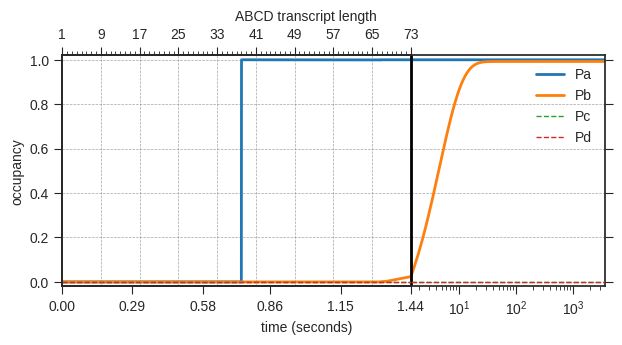
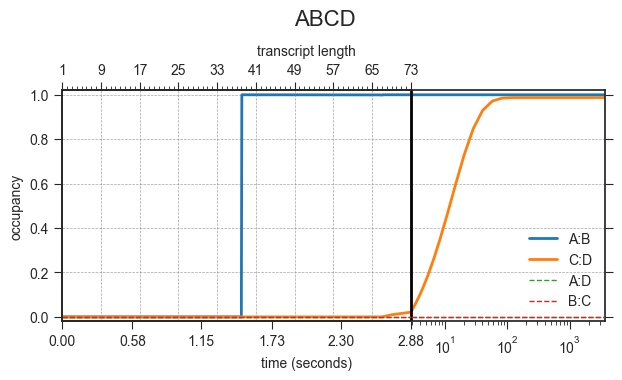
update to v0.12 and update README

diff --git a/drtransformer/__init__.py b/drtransformer/__init__.py
@@ -4,7 +4,7 @@
 # See README for instructions.
 #
 
-__version__ = "0.11"
+__version__ = "0.12"
 
 _MIN_VRNA_VERSION = "2.4.13"
 

diff --git a/README.md b/README.md
@@ -36,17 +36,26 @@ command line executables:
 ```
 
 ### An example cotranscriptional folding simulation
-As an example, let's do a quick investigation of a cotranscriptional folding
-trap designed by [Xayaphoummine et al. (2006)]. The relevant files can be found
-in the subfolder [`examples/`], in particular the three files [`ABCD.fa`],
-[`DCBA.fa`] and [`DCBAmod.fa`]. Those files contain only a fasta header and the
-respective sequence from the publication.
+As an example, we show a quick investigation of a cotranscriptional folding
+trap designed by [Xayaphoummine et al. (2006)].  Briefly, two sequences are
+composed of the same palindromic subsequences (A, B, C, D) in forward and
+reverse order (`ABCD` and `DCBA`); the third sequence (`DCMA`) has a
+point mutation which changes B to M. The experiment demonstrates how the order
+of helix formation determines which structures are formed at the end of
+transcription, an effect that cannot be observed with a thermodynamic
+equilibrium prediction, because the free energies of, for example, the helices
+A:B and B:A are almost the same due to their palindromic subsequences.
+The three input files [`ABCD.fa`], [`DCBA.fa`] and [`DCMA.fa`] 
+contain a fasta header and the respective sequence from the original publication.
+Those files can be found in the subfolder [`examples/`]. 
+
 ```sh
   ~$ cat ABCD.fa | DrTransformer --name ABCD --o-prune 0.01 --logfile 
 ```
-The above command line call of DrTransformer produced two files:
+This command line call of DrTransformer produces two files:
  - `ABCD.log` contains a human-readable summary of the cotranscriptional folding process. 
- - `ABCD.drf` contains the details of the cotranscriptional folding simulation. 
+ - `ABCD.drf` contains the details of the cotranscriptional folding simulation in the
+ [DrForna] file format. 
 
 #### Structure-based data analysis
 DrPlotter supports different types of visual analysis for the `.drf` file
@@ -63,46 +72,41 @@ match the ones shown here.** For example, to see which structures are shown at
 the simulation of nucleotide 73, read the log file entries for this transcript
 length:
 ```
-73    1 ....(((((((((((((((....)))))))))))))))....(((((((((.......)))))))))...... -42.40 [0.0240 -> 0.9924] ID = 23
-73    2 ....(((((((((((((((....)))))))))))))))....(((((((((....)).)))))))........ -39.40 [0.7734 -> 0.0076] ID = 21
-73    3 ....(((((((((((((((....)))))))))))))))....(((((((......)).))))).......... -34.80 [0.2027 -> 0.0000] ID = 19
-
+73    1 .(..(((((((((((((((....)))))))))))))))..).(((((((((.......)))))))))...... -42.60 +[0.0213 -> 0.9876] ID = 24
+73    2 ....(((((((((((((((....))))))))))))))).(..(((((((((....)).)))))))..)..... -39.90 -[0.9787 -> 0.0124] ID = 25
 ```
-The logfile lists three potentially interesting structures (in order of their
-free energy), it shows their occupancy at the start of the simulation and
-at the end of a simulation in square brackets, and it provides the ID to follow
-a specific structure through the transcription process. This ID is also used as 
-a label in the plot `ABCD.png`.
+The logfile lists two structures (in order of their free energy), it shows
+their occupancy at the start of the simulation and at the end of a simulation
+in square brackets, and it provides the ID to follow a specific structure
+through the transcription process (+/- indicate a change in occpancy). The IDs
+are used as labels in the plot `ABCD.png`.
 
 ### Motif-based data analysis
-Instead of following specific structures, one can investigate at which point
-the different molecules form specific helix motifs. The paper lists four
-potential helices (*Pa, Pb, Pc, Pd*) for comparison, we provide them in
-dot-bracket notation in the files [`ABCD.motifs`], [`DCBA.motifs`] and
-[`DCBAmod.motifs`], respectively.
+Instead of following specific structures, it is often more helpful to visualize
+when specific helical motifs are formed in the ensemble. Generally, we refer to
+a helix formed from sequences A and B as A:B, etc. All potential helices 
+plotted here are provided in dot-bracket notation in the files [`ABCD.motifs`], [`DCBA.motifs`] and [`DCMA.motifs`].
 ```sh
-  ~$ cat ABCD.drf | DrPlotter --name ABCD-motifs --molecule ABCD --format png --motiffile ABCD.motifs --motifs Pa Pb Pc Pd
-  ~$ cat DCBA.drf | DrPlotter --name DCBA-motifs --molecule DCBA --format png --motiffile DCBA.motifs --motifs Pa Pb Pc Pd
-  ~$ cat DCBAmod.drf | DrPlotter --name DCBAmod-motifs --molecule DCBAmod --format png --motiffile DCBAmod.motifs --motifs Pa Pb Pc Pd
+  ~$ cat ABCD.drf | DrPlotter --name ABCD-motifs --molecule ABCD --format png --motiffile ABCD.motifs --motifs A:B C:D A:D B:C
+  ~$ cat DCBA.drf | DrPlotter --name DCBA-motifs --molecule DCBA --format png --motiffile DCBA.motifs --motifs B:A D:C D:A C:B
+  ~$ cat DCMA.drf | DrPlotter --name DCMA-motifs --molecule DCMA --format png --motiffile DCMA.motifs --motifs M:A D:C D:A C:M
 ```
 <img src="examples/ABCD-motifs.png" alt="ABCD"/><br>
-ABCD forms only structures with motif Pa, Pb but not Pc and Pd. Note how motif
-Pb is not formed "immediately", because there are competing helix motifs which
-are cotranscriptionally favored. (Those motifs can be seen in the previous
-analysis: the structures with ID 19 and 21.)
-
+ABCD forms only structures A:B and C:D but not A:D and B:C. Also, helix C:D is
+not formed "immediately", because there is a competing structure which
+is cotranscriptionally favored (see ID 25 from the previous anlysis).
 
 <img src="examples/DCBA-motifs.png" alt="DCBA"/><br>
-DCBA forms structures with all motifs. The structures containing motifs Pc and
-Pd dominate with more than 90%, the structures containing motifs Pa and Pb are
-below 10% of the population. Eventually, the structures with Pa and Pb will be
+DCBA forms structures with all motifs. The helical structures C:B and
+D:A dominate with more than 90%, the helices D:C and B:A are
+below 10% of the population. Eventually, D:C and B:A will be
 dominant, but not on the time scale simulated here. (Can you repeat the analysis
-to see how much time it needs until Pa and Pb dominate the ensemble?)
+to see how much time it needs until D:C and B:A dominate the ensemble?)
 
-<img src="examples/DCBAmod-motifs.png" alt="DCBAmod"/><br>
-As shown in the publication, a single point mutation (from DCBA to DCBAmod) is
-sufficient to drastically shift occupancy between Pa/Pb and Pc/Pd containing 
-structures at the end of transcription.
+<img src="examples/DCMA-motifs.png" alt="DCMA"><br>
+As shown in the publication, a single point mutation (from DCBA to DCMA) is
+sufficient to drastically shift occupancy of helices: M:A and D:C
+are more occupied at the end of transcription than D:A and C:M.
 
 ### Tips and tricks
  - The header of the logfile contains all relevant DrTransformer parameters that generated the file. 
@@ -112,8 +116,12 @@ structures at the end of transcription.
  - Motifs for DrPlotter can also contain 'x' in the dot-bracket notation for *must be unpaired*.
 
 ## Version
+v0.12 -- perparing for official release
+  * changed --t-lin, --t-log defaults and fixed --t-lin=1, --t-log=1
+  * fixed potential issues with --t-end = --t-ext
+  * adapted README example to publication 
 
-v0.11 -- using lonley base-pairs
+v0.11 -- using lonely base-pairs
   * removed the --noLP default (added parameter setting)
   * added profiling option for runtime optimization
   * using --cg-auto default paramter
@@ -135,7 +143,7 @@ v0.9 -- standalone package (no official release)
 ## License
 The code of this project is available under MIT license, however this
 software depends on the [ViennaRNA] package which is available through the
-[ViennaRNA license], which is more restricted with respect to commertial use. 
+[ViennaRNA license], which is more restrictive with respect to commertial use. 
 
 ## Cite
 Badelt et al. (in preparation)
@@ -147,11 +155,12 @@ Badelt et al. (in preparation)
 [ViennaRNA license]: <https://github.com/ViennaRNA/ViennaRNA/blob/master/license.txt>
 [ribolands]: <https://github.com/bad-ants-fleet/ribolands>
 [treekin]: <https://github.com/ViennaRNA/Treekin>
+[DrForna]: <https://github.com/ViennaRNA/drforna>
 [Xayaphoummine et al. (2006)]: <https://doi.org/10.1093/nar/gkl1036>
 [`examples/`]: <examples>
 [`ABCD.fa`]: <examples/ABCD.fa>
 [`DCBA.fa`]: <examples/DCBA.fa>
-[`DCBAmod.fa`]: <examples/DCBAmod.fa>
+[`DCMA.fa`]: <examples/DCMA.fa>
 [`ABCD.motifs`]: <examples/ABCD.motifs>
 [`DCBA.motifs`]: <examples/DCBA.motifs>
-[`DCBAmod.motifs`]: <examples/DCBAmod.motifs>
+[`DCMA.motifs`]: <examples/DCMA.motifs>
